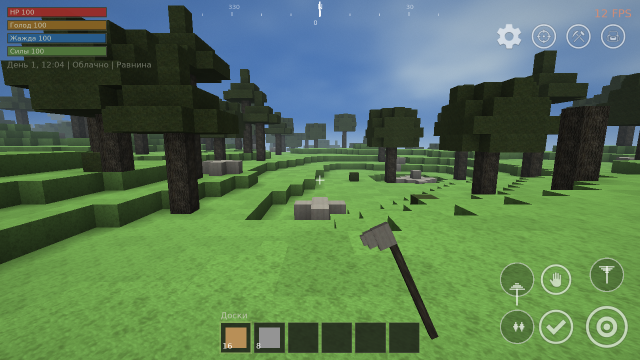
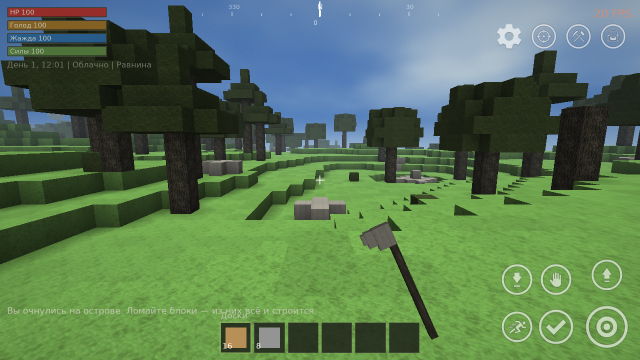
Иконки прыжка, бега и приседа из загруженных картинок
Три кнопки движения оставались нарисованными примитивами — теперь у них свои
иконки из набора, как и у остальных. Примитивы остались запасным вариантом на
случай, если картинки нет: правило «игра запускается без ассетов» в силе.

Заодно в docs/ANDROID.md описаны иконки вместо подписей, карта во весь экран с
неизменной меткой игрока и настройки отдельной сценой; скриншот обновлён.

Claude-Session: https://claude.ai/code/session_01QPxHr3woNQp4N3esrFR2qL

diff --git a/src/Client/GameClient.cpp b/src/Client/GameClient.cpp
@@ -1289,6 +1289,9 @@ void GameClient::renderTouchControls(){
         else if(label == "КРАФТ")    icon = texCraft_;
         else if(label == "КАРТА")    icon = texMap_;
         else if(label == "НАСТР")    icon = texSettings_;
+        else if(label == "ПРЫЖОК")   icon = texJump_;
+        else if(label == "БЕГ")      icon = texRun_;
+        else if(label == "СЕСТЬ")    icon = texCrouch_;
 
         float alpha = b.active ? 0.95f : 0.62f;
         if(icon){
@@ -1297,8 +1300,8 @@ void GameClient::renderTouchControls(){
             continue;
         }
 
-        // Для прыжка, бега и приседа иконок в наборе нет — рисуем знаки примитивами:
-        // стрелка вверх, двойная стрелка вперёд, стрелка вниз.
+        // Запасной вариант, если картинки кнопки нет: знак рисуется примитивами —
+        // стрелка вверх (прыжок), стрелка вниз (присед), «бегущие» полоски (бег).
         drawUICircle(b.cx, b.cy, b.radius, UI_BG_PANEL.r, UI_BG_PANEL.g, UI_BG_PANEL.b, b.active ? 0.5f : 0.3f);
         drawUICircleOutline(b.cx, b.cy, b.radius, 1, 1, 1, alpha * 0.8f, 2.5f);
         float k = b.radius * 0.5f;
@@ -1863,6 +1866,9 @@ void GameClient::loadInterfaceTextures(){
         { "ui_map.png",            &texMap_ },
         { "ui_settings.png",       &texSettings_ },
         { "ui_close.png",          &texClose_ },
+        { "ui_jump.png",           &texJump_ },
+        { "ui_run.png",            &texRun_ },
+        { "ui_crouch.png",         &texCrouch_ },
         { "ui_joystick_base.png",  &texJoyBase_ },
         { "ui_joystick_stick.png", &texJoyStick_ },
         { "ui_player_marker.png",  &texPlayerMarker_ },

diff --git a/src/Client/GameClient.h b/src/Client/GameClient.h
@@ -129,6 +129,7 @@ private:
     // Иконки интерфейса. 0 — файла не нашлось, рисуем как раньше.
     GLuint texDig_ = 0, texPlace_ = 0, texInteract_ = 0, texInventory_ = 0;
     GLuint texCraft_ = 0, texMap_ = 0, texSettings_ = 0, texClose_ = 0;
+    GLuint texJump_ = 0, texRun_ = 0, texCrouch_ = 0;
     GLuint texJoyBase_ = 0, texJoyStick_ = 0, texPlayerMarker_ = 0, texMenuBg_ = 0;
     int menuBgW_ = 0, menuBgH_ = 0;   // размеры фона: рисуем его без растяжения
     GLuint highlightVao_ = 0, highlightVbo_ = 0;

diff --git a/tools/prepare_assets.py b/tools/prepare_assets.py
@@ -102,6 +102,9 @@ JOBS = {
     'ui_map.png':        ('zoom-button.png', 128),
     'ui_settings.png':   ('settings.png', 128),
     'ui_close.png':      ('X.png', 128),
+    'ui_jump.png':       ('jump-button.png', 128),
+    'ui_run.png':        ('run-button.png', 128),
+    'ui_crouch.png':     ('crouch-button.png', 128),
     'ui_joystick_base.png':  ('base-joystick.png', 160),
     'ui_joystick_stick.png': ('stick-joystick.png', 128),
     'ui_player_marker.png':  ('self.png', 48),

diff --git a/tests/test_assets.cpp b/tests/test_assets.cpp
@@ -40,6 +40,7 @@ const char* BLOCK_TEXTURES[] = {
 const char* UI_TEXTURES[] = {
     "ui_dig.png", "ui_place.png", "ui_interact.png", "ui_inventory.png",
     "ui_craft.png", "ui_map.png", "ui_settings.png", "ui_close.png",
+    "ui_jump.png", "ui_run.png", "ui_crouch.png",
     "ui_joystick_base.png", "ui_joystick_stick.png", "ui_player_marker.png",
     "menu_bg.png"
 };

diff --git a/docs/ANDROID.md b/docs/ANDROID.md
@@ -41,23 +41,26 @@ android/
 их `tools/prepare_assets.py` (см. `docs/VOXELS.md`), весит набор меньше мегабайта.
 
 Ассеты при этом необязательны: шрифт берётся системный (Roboto), а если картинки не
-положить, блоки рисуются цветом, кнопки — кругами с подписью, и игра всё равно
-запускается. Это осознанное решение: сборка не падает из-за отсутствия файла.
+положить, блоки рисуются цветом, кнопки — кругами со знаком из примитивов, и игра всё
+равно запускается. Это осознанное решение: сборка не падает из-за отсутствия файла.
 
 ## Управление (сенсор)
+
+Подписей на кнопках нет — только иконки: текст на круге в 60 пикселей всё равно не
+читался, а на телефоне место дороже. Ниже — что какая делает.
 
 | Жест / кнопка | Действие |
 |---|---|
 | Палец на **левой** половине экрана | джойстик движения — появляется там, где коснулись |
 | Перетаскивание по **правой** половине, мимо кнопок | обзор |
-| **КОПАТЬ** | сломать блок под прицелом (держать) |
-| **СТАВИТЬ** | поставить блок из выбранной ячейки пояса |
-| **E** | съесть выбранное или напиться, стоя в воде |
-| **ПРЫЖОК** | прыжок (тратит выносливость) |
-| **БЕГ** | тумблер бега (тратит выносливость) |
-| **СЕСТЬ** | тумблер приседа |
+| Кирка | сломать блок под прицелом (держать) |
+| Галочка | поставить блок из выбранной ячейки пояса |
+| Ладонь | съесть выбранное или напиться, стоя в воде |
+| Стрелка вверх | прыжок (тратит выносливость) |
+| Бегущий человек | тумблер бега (тратит выносливость) |
+| Стрелка вниз | тумблер приседа |
 | Ячейки пояса внизу экрана | выбрать блок или предмет |
-| **ИНВ / КРАФТ / КАРТА / НАСТР** | инвентарь на 30 слотов, рецепты, карта острова, настройки |
+| Рюкзак / молоток / прицел / шестерёнка | инвентарь на 30 слотов, рецепты, карта острова, настройки |
 | Кнопка «назад» | закрывает окно; из игры уводит в главное меню; из меню — выход |
 
 Сверху идёт **компас** со сторонами света и курсом в градусах — по нему в кооперативе
@@ -65,11 +68,13 @@ android/
 подпись висела в центре экрана постоянно и мешала смотреть; что за блок — видно по
 цвету, что удар засчитан — по рамке и полосе добычи.
 
-**Карта** (кнопка КАРТА) — почти во весь экран, сетка 10×10 с подписью квадрата прямо
-в самом квадрате (A1 … J10). Масштаб меняется **щипком двумя пальцами**, карта двигается
-перетаскиванием; кнопок приближения нет. Закрыть — кнопкой «ЗАКРЫТЬ» или системной
-кнопкой «назад». Игрок показан точкой со стрелкой направления взгляда, в заголовке —
-текущий квадрат и координаты.
+**Карта** — во весь экран, сетка 10×10 с подписью квадрата прямо в самом квадрате
+(A1 … J10; подписи прижаты к краям экрана, чтобы не уезжать за карту). Масштаб меняется
+**щипком двумя пальцами**, карта двигается перетаскиванием; кнопок приближения нет.
+Закрыть — крестиком в углу или системной кнопкой «назад». Игрок показан своей меткой со
+стрелкой взгляда; метка не растёт вместе с приближением — иначе на большом масштабе она
+закрывала полкарты. Рельеф на карту не наносится: полосы ям и склонов мешали читать
+границы зон, а высоту всё равно видно в игре.
 
 **Компас** — белая полупрозрачная шкала градусов вверху экрана: деления и стороны света
 едут вместе с поворотом, а неподвижная палка по центру показывает, на какой курс смотрит
@@ -79,7 +84,12 @@ android/
 и они не влезут ни в один экран телефона.
 
 **Главное меню** с кнопками «Играть», «Настройки» и «Выход» открывается при запуске;
-фоном идёт живой мир — камера медленно поворачивается над лесом.
+фон — картинка `assets/menu_bg.png`, вписанная по накрытию (пропорции сохраняются, лишнее
+срезается по длинной стороне).
+
+**Настройки** — не окно поверх игры, а отдельная сцена во весь экран: шапка с заголовком,
+крестик выхода в правом верхнем углу и список строк почти во всю ширину. Окно было
+слишком мелким для пальца, и его края путались с игрой под ним.
 
 Почему так, а не иначе:
 
